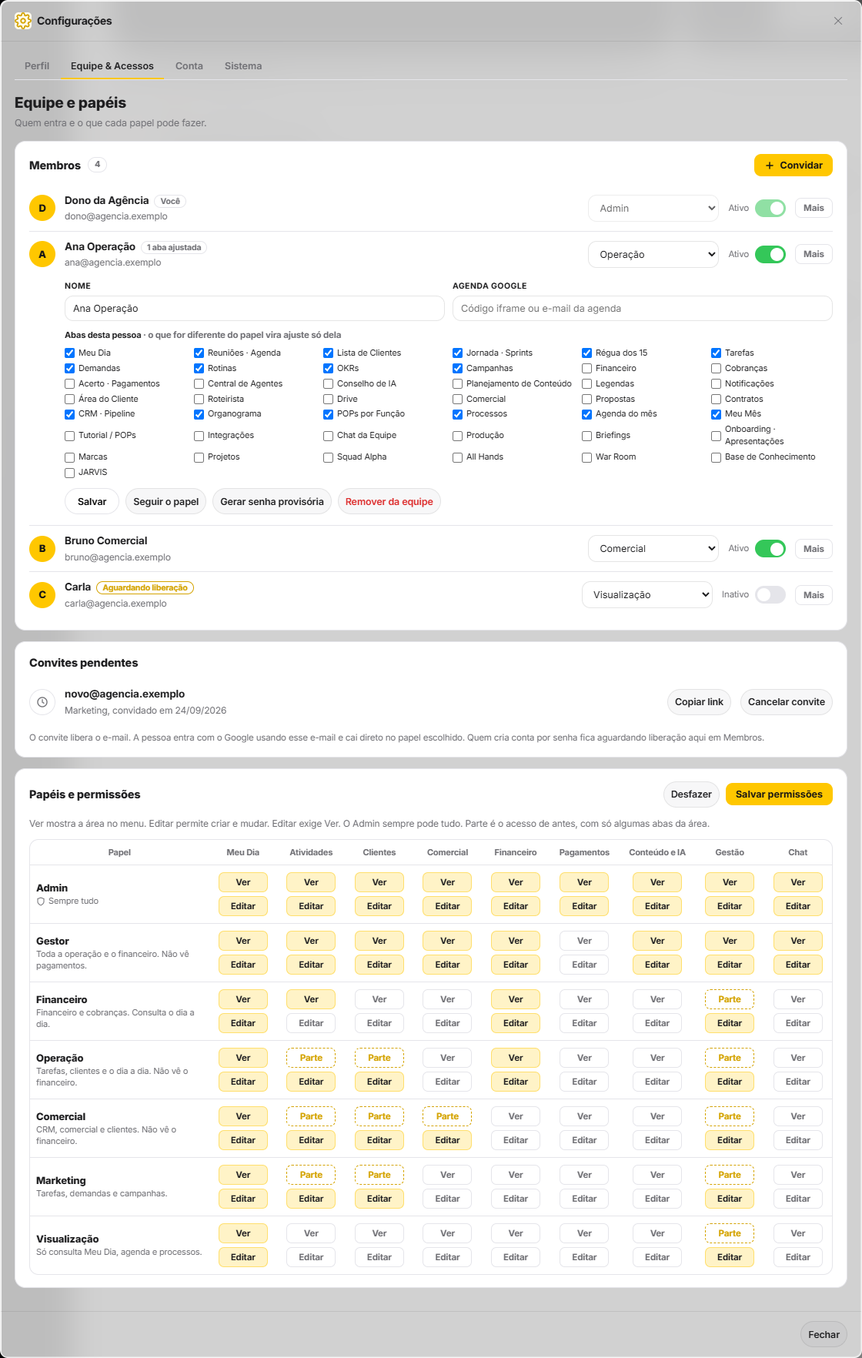
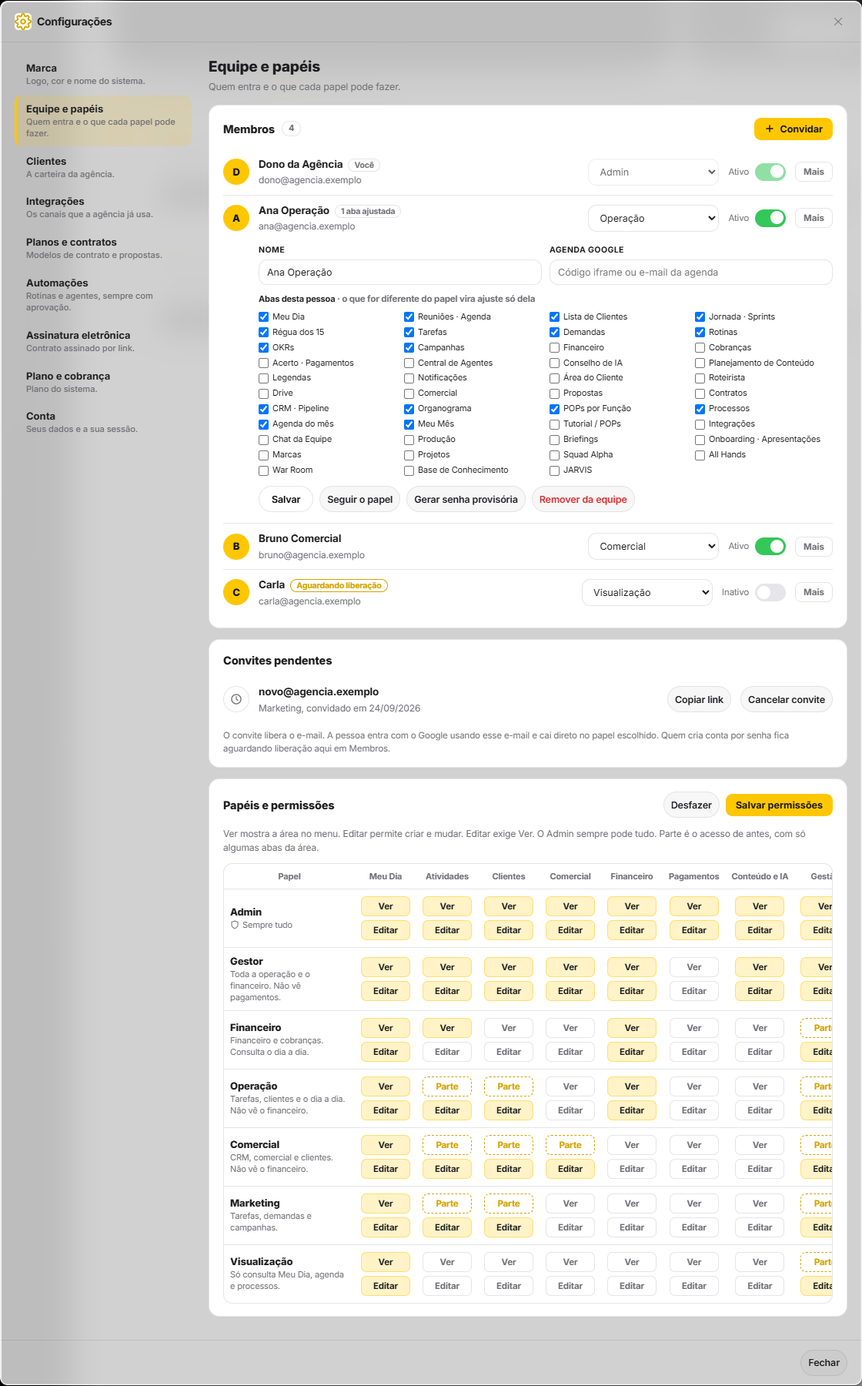
feat(configuracoes): menu lateral com as 9 seções da V3
- Marca, Equipe e papéis, Clientes, Integrações, Planos e contratos, Automações,
  Assinatura eletrônica, Plano e cobrança e Conta, no molde da V3
- Nada sumiu: Perfil entrou em Conta, a marca foi para Marca, as rotinas foram
  para Automações; as seções de atalho abrem as páginas que já existiam
- Quem não é admin nem gestor vê só Conta; setTab('perfil') e setTab('sistema')
  antigos caem em Conta e Marca
- No celular o menu vira abas roláveis

diff --git a/public/workflowark.html b/public/workflowark.html
@@ -1,4 +1,4 @@
-<!-- build 20260926b-inicio-v3 -->
+<!-- build 20260926c-config-v3 -->
 <html lang="pt-BR">
 <head>
 <meta charset="utf-8">
@@ -4373,7 +4373,7 @@ function wfaSetTheme(t){
 
 <!-- =================== CONFIGURAÇÕES =================== -->
 <div class="modal-bg" id="modal-settings">
-  <div class="modal" style="max-width:660px">
+  <div class="modal" style="max-width:1120px">
     <style>
       .set-tabs{display:flex;gap:2px;border-bottom:1px solid var(--line);margin:0 0 16px;flex-wrap:wrap}
       .set-tab{background:none;border:none;padding:8px 13px;font-size:12.5px;font-weight:600;color:var(--mute);cursor:pointer;border-bottom:2px solid transparent;border-radius:0;font-family:var(--sans)}
@@ -4391,49 +4391,120 @@ function wfaSetTheme(t){
       .set-acc-grid label{font-size:11px;color:var(--txt);display:flex;align-items:center;gap:5px;cursor:pointer}
       .set-merow{background:var(--bg);border:1px solid var(--line);border-radius:9px;padding:11px 13px;margin-bottom:14px}
       .set-meta-line{font-size:11px;color:var(--mute);font-family:var(--mono);margin-top:4px}
+      .set-nav{flex-direction:column;border-bottom:none;margin:0;gap:2px;flex-wrap:nowrap}
+      #modal-settings .modal-body{display:grid;grid-template-columns:230px minmax(0,1fr);gap:22px;align-items:start}
+      .set-nav .set-tab{display:flex;flex-direction:column;align-items:flex-start;gap:2px;text-align:left;padding:9px 12px;border-radius:10px;border-bottom:none;border-left:3px solid transparent}
+      .set-nav .set-tab b{font-size:13px;color:var(--ink);font-weight:700}.set-nav .set-tab span{font-size:11px;color:var(--mute);font-weight:500;line-height:1.35}
+      .set-nav .set-tab.active{background:color-mix(in srgb,var(--yel) 14%,transparent);border-left-color:var(--yel)}
+      .set-nav .set-tab:focus-visible{outline:2px solid var(--yel);outline-offset:2px}
+      .set-conteudo{min-width:0}
+      .set-cab{margin:2px 0 14px}.set-cab h4{font-size:19px;font-weight:800;color:var(--ink);margin:0}.set-cab p{font-size:12.5px;color:var(--mute);margin:3px 0 0}
+      .set-cards{display:grid;gap:10px;margin-bottom:14px}
+      .set-card{display:flex;justify-content:space-between;align-items:center;gap:12px;border:1px solid var(--line);border-radius:14px;padding:13px 15px;background:var(--surface)}
+      .set-card b{display:block;font-size:13.5px;color:var(--ink)}.set-card span{font-size:12px;color:var(--mute)}
+      .set-card-caixa{border:1px solid var(--line);border-radius:14px;padding:15px 16px;background:var(--surface);margin-bottom:14px}
+      .set-em-prep{font-size:12px;color:var(--yel-d)}
+      .set-kpis{display:grid;grid-template-columns:repeat(3,minmax(0,1fr));gap:10px;margin-bottom:14px}
+      .set-kpis div{border:1px solid var(--line);border-radius:14px;padding:13px 15px;background:var(--surface)}.set-kpis span{display:block;font-size:12px;color:var(--mute)}.set-kpis b{font-size:22px;color:var(--ink)}
+      @media (max-width:760px){
+        #modal-settings .modal-body{grid-template-columns:minmax(0,1fr);gap:12px}
+        .set-nav{flex-direction:row;overflow-x:auto;scrollbar-width:none;border-bottom:1px solid var(--line);padding-bottom:6px}
+        .set-nav::-webkit-scrollbar{display:none}
+        .set-nav .set-tab{flex:none;border-left:none;border-bottom:2px solid transparent;border-radius:8px}.set-nav .set-tab span{display:none}
+        .set-nav .set-tab.active{border-bottom-color:var(--yel)}
+        .set-card{flex-direction:column;align-items:flex-start}.set-kpis{grid-template-columns:minmax(0,1fr)}
+      }
     </style>
     <div class="modal-head">
       <h3><span class="ic"><svg viewBox="0 0 24 24" fill="none" stroke="currentColor" stroke-width="2" stroke-linecap="round" stroke-linejoin="round"><circle cx="12" cy="12" r="3"/><path d="M19.4 15a1.65 1.65 0 00.33 1.82l.06.06a2 2 0 11-2.83 2.83l-.06-.06a1.65 1.65 0 00-1.82-.33 1.65 1.65 0 00-1 1.51V21a2 2 0 11-4 0v-.09A1.65 1.65 0 009 19.4a1.65 1.65 0 00-1.82.33l-.06.06a2 2 0 11-2.83-2.83l.06-.06a1.65 1.65 0 00.33-1.82 1.65 1.65 0 00-1.51-1H3a2 2 0 110-4h.09A1.65 1.65 0 004.6 9a1.65 1.65 0 00-.33-1.82l-.06-.06a2 2 0 112.83-2.83l.06.06a1.65 1.65 0 001.82.33H9a1.65 1.65 0 001-1.51V3a2 2 0 114 0v.09a1.65 1.65 0 001 1.51 1.65 1.65 0 001.82-.33l.06-.06a2 2 0 112.83 2.83l-.06.06a1.65 1.65 0 00-.33 1.82V9a1.65 1.65 0 001.51 1H21a2 2 0 110 4h-.09a1.65 1.65 0 00-1.51 1z"/></svg></span>Configurações</h3>
       <span class="x" onclick="closeModal('modal-settings')">✕</span>
     </div>
     <div class="modal-body">
-      <div class="set-tabs">
-        <button class="set-tab active" data-st="perfil" onclick="setTab('perfil')">Perfil</button>
-        <button class="set-tab" data-st="equipe" id="set-tab-equipe" onclick="setTab('equipe')" style="display:none">Equipe &amp; Acessos</button>
-        <button class="set-tab" data-st="conta" onclick="setTab('conta')">Conta</button>
-        <button class="set-tab" data-st="sistema" onclick="setTab('sistema')">Sistema</button>
-      </div>
+      <nav class="set-tabs set-nav" aria-label="Seções das configurações">
+        <button class="set-tab" data-st="marca" data-st-gestao onclick="setTab('marca')"><b>Marca</b><span>Logo, cor e nome do sistema.</span></button>
+        <button class="set-tab" data-st="equipe" id="set-tab-equipe" onclick="setTab('equipe')" style="display:none"><b>Equipe e papéis</b><span>Quem entra e o que cada papel pode fazer.</span></button>
+        <button class="set-tab" data-st="clientes" data-st-gestao onclick="setTab('clientes')"><b>Clientes</b><span>A carteira da agência.</span></button>
+        <button class="set-tab" data-st="integracoes" data-st-gestao onclick="setTab('integracoes')"><b>Integrações</b><span>Os canais que a agência já usa.</span></button>
+        <button class="set-tab" data-st="planos" data-st-gestao onclick="setTab('planos')"><b>Planos e contratos</b><span>Modelos de contrato e propostas.</span></button>
+        <button class="set-tab" data-st="automacoes" data-st-gestao onclick="setTab('automacoes')"><b>Automações</b><span>Rotinas e agentes, sempre com aprovação.</span></button>
+        <button class="set-tab" data-st="assinatura" data-st-gestao onclick="setTab('assinatura')"><b>Assinatura eletrônica</b><span>Contrato assinado por link.</span></button>
+        <button class="set-tab" data-st="cobranca" data-st-gestao onclick="setTab('cobranca')"><b>Plano e cobrança</b><span>Plano do sistema.</span></button>
+        <button class="set-tab active" data-st="conta" onclick="setTab('conta')"><b>Conta</b><span>Seus dados e a sua sessão.</span></button>
+      </nav>
+      <div class="set-conteudo">
 
-      <!-- PERFIL -->
-      <div class="set-pane active" data-stp="perfil">
-        <div class="set-merow">
-          <div id="set-me-nm" style="font-size:14px;font-weight:700;color:var(--ink)">—</div>
-          <div class="set-meta-line" id="set-me-meta">—</div>
+      <!-- MARCA -->
+      <div class="set-pane" data-stp="marca">
+        <div class="set-cab"><h4>Marca</h4><p>Logo, cor e nome do sistema. Base para vender o WorkFlowArk com a marca de outra agência.</p></div>
+        <div class="set-card-caixa">
+        <div style="display:grid;grid-template-columns:1fr auto;gap:8px;align-items:end;margin-bottom:10px">
+          <div><label class="form-label">Nome do produto</label><input id="brand-name" class="form-input" placeholder="WorkFlowArk"></div>
+          <div><label class="form-label">Cor de destaque</label><input id="brand-color" type="color" value="#FFC700" style="width:52px;height:38px;border:1px solid var(--line);border-radius:8px;padding:2px;background:#fff;cursor:pointer"></div>
         </div>
-        <div class="form-group">
-          <label class="form-label">Seu nome de exibição</label>
-          <div style="display:flex;gap:8px">
-            <input class="form-input" id="set-myname" list="set-people" placeholder="Ex: Gabriel Andrade" style="flex:1">
-            <button class="tb-btn" onclick="salvarMeuNome()">Salvar nome</button>
-          </div>
-          <datalist id="set-people"></datalist>
-          <p class="muted" style="font-size:10.5px;margin-top:6px">Use o mesmo nome que aparece nas tarefas (campo "responsável") para o "Meu Dia" reconhecer as suas atividades.</p>
+        <div style="display:grid;grid-template-columns:1fr auto;gap:8px;align-items:end;margin-bottom:10px">
+          <div><label class="form-label">Logo (endereço da imagem)</label><input id="brand-logo" class="form-input" placeholder="https://.../logo.png" oninput="brandLogoPreview()"></div>
+          <div><label class="form-label">Prévia</label><div id="brand-logo-prev" style="width:38px;height:38px;border:1px solid var(--line);border-radius:8px;display:flex;align-items:center;justify-content:center;overflow:hidden;background:var(--surface)"><img src="/ark-mark.png" alt="" style="max-width:100%;max-height:100%;object-fit:contain"></div></div>
         </div>
-      </div>
+        <p class="muted" style="font-size:10.5px;margin-bottom:9px">O logo troca na barra lateral e na tela de entrada. Use PNG ou SVG com fundo transparente.</p>
+        <div style="display:flex;gap:8px;flex-wrap:wrap;margin-bottom:18px">
+          <button class="tb-btn" onclick="saveBrand()">Aplicar marca</button>
+          <button class="icobtn" onclick="resetBrand()">Restaurar ARK</button>
+        </div>
 
-
-      <!-- SISTEMA (blocos aprovados em 21/09, vindos da base v2) -->
-      <div class="set-pane" data-stp="sistema">
-        <div class="set-sect-t" style="margin-bottom:10px">Sistema</div>
-        <div style="display:grid;grid-template-columns:repeat(auto-fill,minmax(210px,1fr));gap:10px">
-          <button type="button" class="set-merow" style="text-align:left;cursor:pointer;margin:0;font-family:inherit" onclick="openSettingsIr('integracoes')"><div style="font-size:13.5px;font-weight:700;color:var(--ink)">Marca</div><div class="set-meta-line" style="font-family:inherit;font-size:11.5px">Logo, cores e link público do cliente</div></button>
-          <button type="button" class="set-merow" style="text-align:left;cursor:pointer;margin:0;font-family:inherit" onclick="setTab('equipe')"><div style="font-size:13.5px;font-weight:700;color:var(--ink)">Equipe e papéis</div><div class="set-meta-line" style="font-family:inherit;font-size:11.5px">Quem vê o quê. Financeiro restrito.</div></button>
-          <button type="button" class="set-merow" style="text-align:left;cursor:pointer;margin:0;font-family:inherit" onclick="openSettingsIr('integracoes')"><div style="font-size:13.5px;font-weight:700;color:var(--ink)">Integrações</div><div class="set-meta-line" style="font-family:inherit;font-size:11.5px">Google Agenda, Drive, Instagram, WhatsApp, Meta Ads</div></button>
-          <button type="button" class="set-merow" style="text-align:left;cursor:pointer;margin:0;font-family:inherit" onclick="openSettingsIr('contratos')"><div style="font-size:13.5px;font-weight:700;color:var(--ink)">Planos e contratos</div><div class="set-meta-line" style="font-family:inherit;font-size:11.5px">Modelos de contrato e propostas</div></button>
-          <button type="button" class="set-merow" style="text-align:left;cursor:pointer;margin:0;font-family:inherit" onclick="openSettingsIr('rotinas')"><div style="font-size:13.5px;font-weight:700;color:var(--ink)">Automações</div><div class="set-meta-line" style="font-family:inherit;font-size:11.5px">Rotinas e agentes, sempre com aprovação</div></button>
-          <button type="button" class="set-merow" style="text-align:left;cursor:pointer;margin:0;font-family:inherit" onclick="toast('Assinatura eletrônica: em preparação')"><div style="font-size:13.5px;font-weight:700;color:var(--ink)">Assinatura eletrônica</div><div class="set-meta-line" style="font-family:inherit;font-size:11.5px">Enviar contrato para assinar (em preparação)</div></button>
         </div>
       </div>
+      <!-- CLIENTES -->
+      <div class="set-pane" data-stp="clientes">
+        <div class="set-cab"><h4>Clientes</h4><p>A carteira que a agência atende.</p></div>
+        <div class="set-kpis" id="set-cli-kpis"></div>
+        <div class="set-cards">
+          <div class="set-card"><div><b>Lista de clientes</b><span>Cadastro, contrato, contato e status de cada cliente.</span></div><button class="tb-btn" type="button" onclick="openSettingsIr('lista-clientes')">Abrir lista</button></div>
+          <div class="set-card"><div><b>Gestão de clientes</b><span>Jornada, régua e o dia a dia por cliente.</span></div><button class="tb-btn" type="button" onclick="openSettingsIr('jornada')">Abrir gestão</button></div>
+        </div>
+      </div>
+      <!-- INTEGRAÇÕES -->
+      <div class="set-pane" data-stp="integracoes">
+        <div class="set-cab"><h4>Integrações</h4><p>Conecte os canais que a agência já usa.</p></div>
+        <div class="set-cards">
+          <div class="set-card"><div><b>Google Agenda</b><span>Reuniões e captações da equipe na agenda.</span></div><button class="tb-btn" type="button" onclick="openSettingsIr('integracoes')">Configurar</button></div>
+          <div class="set-card"><div><b>Google Drive</b><span>Pastas de cada cliente e entregas.</span></div><button class="tb-btn" type="button" onclick="openSettingsIr('integracoes')">Configurar</button></div>
+          <div class="set-card"><div><b>Instagram</b><span>Perfil, posts e prévia do feed do cliente.</span></div><button class="tb-btn" type="button" onclick="openSettingsIr('integracoes')">Configurar</button></div>
+          <div class="set-card"><div><b>WhatsApp</b><span>Conversas com clientes dentro do sistema.</span></div><button class="tb-btn" type="button" onclick="openSettingsIr('integracoes')">Configurar</button></div>
+          <div class="set-card"><div><b>Meta Ads</b><span>Campanhas e resultados de tráfego.</span></div><button class="tb-btn" type="button" onclick="openSettingsIr('integracoes')">Configurar</button></div>
+        </div>
+      </div>
+      <!-- PLANOS E CONTRATOS -->
+      <div class="set-pane" data-stp="planos">
+        <div class="set-cab"><h4>Planos e contratos</h4><p>Os pacotes que você vende e os modelos de contrato.</p></div>
+        <div class="set-cards">
+          <div class="set-card"><div><b>Contratos</b><span>Modelos e contratos gerados para cada cliente.</span></div><button class="tb-btn" type="button" onclick="openSettingsIr('contratos')">Abrir contratos</button></div>
+          <div class="set-card"><div><b>Propostas</b><span>Propostas comerciais prontas para enviar.</span></div><button class="tb-btn" type="button" onclick="openSettingsIr('propostas')">Abrir propostas</button></div>
+          <div class="set-card"><div><b>Comercial</b><span>Pacotes, preços e o funil de vendas.</span></div><button class="tb-btn" type="button" onclick="openSettingsIr('comercial')">Abrir comercial</button></div>
+        </div>
+      </div>
+      <!-- AUTOMAÇÕES -->
+      <div class="set-pane" data-stp="automacoes">
+        <div class="set-cab"><h4>Automações</h4><p>Regras que preparam o trabalho para você aprovar. Nada sai sozinho.</p></div>
+        <div class="set-cards">
+          <div class="set-card"><div><b>Central de Agentes</b><span>Os agentes de IA e o que cada um prepara.</span></div><button class="tb-btn" type="button" onclick="openSettingsIr('agentes')">Abrir agentes</button></div>
+        </div>
+        <div class="set-card-caixa">
+        <div class="set-sect-t" style="margin-bottom:9px">Rotinas</div>
+        <div id="set-rotinas" style="margin-bottom:18px"></div>
+
+        </div>
+      </div>
+      <!-- ASSINATURA ELETRÔNICA -->
+      <div class="set-pane" data-stp="assinatura">
+        <div class="set-cab"><h4>Assinatura eletrônica</h4><p>Contrato enviado por link e assinado com comprovante.</p></div>
+        <div class="set-card-caixa"><b class="set-em-prep">Em preparação</b><p class="muted" style="font-size:12.5px;margin:6px 0 0">A assinatura por link já funciona na versão para agências. Aqui ela entra depois de testada lá. Por enquanto, os contratos continuam em Contratos.</p><div style="margin-top:12px"><button class="tb-btn" type="button" onclick="openSettingsIr('contratos')">Abrir contratos</button></div></div>
+      </div>
+      <!-- PLANO E COBRANÇA -->
+      <div class="set-pane" data-stp="cobranca">
+        <div class="set-cab"><h4>Plano e cobrança</h4><p>O plano do sistema.</p></div>
+        <div class="set-card-caixa"><b>Instância da ARK Content</b><p class="muted" style="font-size:12.5px;margin:6px 0 0">Período de teste e assinatura do sistema existem só na versão para agências. Esta instância é a da própria ARK.</p></div>
+      </div>
+
       <!-- EQUIPE E PAPÉIS (admin, 24/09/2026: layout da V3) -->
       <div class="set-pane" data-stp="equipe">
         <style>
@@ -4514,6 +4585,20 @@ function wfaSetTheme(t){
 
       <!-- CONTA -->
       <div class="set-pane" data-stp="conta">
+        <div class="set-cab"><h4>Conta</h4><p>Seus dados de acesso e a sua sessão.</p></div>
+        <div class="set-merow">
+          <div id="set-me-nm" style="font-size:14px;font-weight:700;color:var(--ink)">—</div>
+          <div class="set-meta-line" id="set-me-meta">—</div>
+        </div>
+        <div class="form-group">
+          <label class="form-label">Seu nome de exibição</label>
+          <div style="display:flex;gap:8px">
+            <input class="form-input" id="set-myname" list="set-people" placeholder="Ex: Gabriel Andrade" style="flex:1">
+            <button class="tb-btn" onclick="salvarMeuNome()">Salvar nome</button>
+          </div>
+          <datalist id="set-people"></datalist>
+          <p class="muted" style="font-size:10.5px;margin-top:6px">Use o mesmo nome que aparece nas tarefas (campo "responsável") para o "Meu Dia" reconhecer as suas atividades.</p>
+        </div>
         <div class="set-sect-t" style="margin-bottom:9px">Sincronização &amp; sessão</div>
         <div style="display:flex;gap:8px;flex-wrap:wrap;margin-bottom:18px">
           <button class="icobtn" onclick="try{sincronizarAgora()}catch(e){}">↻ Sincronizar agora</button>
@@ -4529,30 +4614,11 @@ function wfaSetTheme(t){
           <button class="tb-btn" onclick="importarDados()">⬆ Importar dados</button>
         </div>
 
-        <div class="set-sect-t" style="margin-bottom:9px">Rotinas de uma vez só</div>
-        <div id="set-rotinas" style="margin-bottom:18px"></div>
-
         <div class="set-sect-t" style="margin-bottom:9px">JARVIS</div>
         <p class="muted" style="font-size:10.5px;margin-bottom:9px">Abra o JARVIS batendo <b>2 palmas</b> (usa o microfone; você autoriza uma vez). Toca um som de inicialização ao abrir.</p>
         <div style="display:flex;gap:8px;flex-wrap:wrap;margin-bottom:18px">
           <button class="tb-btn" id="clap-btn" onclick="arkClapToggle()">Ativar abrir por 2 palmas</button>
           <button class="icobtn" onclick="jarvisBootSound()">▶ Ouvir o som</button>
-        </div>
-
-        <div class="set-sect-t" style="margin-bottom:9px">Marca (White Label)</div>
-        <p class="muted" style="font-size:10.5px;margin-bottom:9px">Personalize o nome e a cor do sistema. Base para vender o WorkFlowArk como produto de outras agências.</p>
-        <div style="display:grid;grid-template-columns:1fr auto;gap:8px;align-items:end;margin-bottom:10px">
-          <div><label class="form-label">Nome do produto</label><input id="brand-name" class="form-input" placeholder="WorkFlowArk"></div>
-          <div><label class="form-label">Cor de destaque</label><input id="brand-color" type="color" value="#FFC700" style="width:52px;height:38px;border:1px solid var(--line);border-radius:8px;padding:2px;background:#fff;cursor:pointer"></div>
-        </div>
-        <div style="display:grid;grid-template-columns:1fr auto;gap:8px;align-items:end;margin-bottom:10px">
-          <div><label class="form-label">Logo (endereço da imagem)</label><input id="brand-logo" class="form-input" placeholder="https://.../logo.png" oninput="brandLogoPreview()"></div>
-          <div><label class="form-label">Prévia</label><div id="brand-logo-prev" style="width:38px;height:38px;border:1px solid var(--line);border-radius:8px;display:flex;align-items:center;justify-content:center;overflow:hidden;background:var(--surface)"><img src="/ark-mark.png" alt="" style="max-width:100%;max-height:100%;object-fit:contain"></div></div>
-        </div>
-        <p class="muted" style="font-size:10.5px;margin-bottom:9px">O logo troca na barra lateral e na tela de entrada. Use PNG ou SVG com fundo transparente.</p>
-        <div style="display:flex;gap:8px;flex-wrap:wrap;margin-bottom:18px">
-          <button class="tb-btn" onclick="saveBrand()">Aplicar marca</button>
-          <button class="icobtn" onclick="resetBrand()">Restaurar ARK</button>
         </div>
 
         <div class="set-sect-t" style="margin-bottom:9px">Dados de demonstração</div>
@@ -4561,6 +4627,7 @@ function wfaSetTheme(t){
           <button class="icobtn" style="color:var(--red)" onclick="removerExemplos()">Remover exemplos</button>
         </div>
         <div class="set-meta-line">WorkFlowArk · ARK Content · v3</div>
+      </div>
       </div>
     </div>
     <div class="modal-foot"><button class="icobtn" onclick="closeModal('modal-settings')">Fechar</button></div>

diff --git a/public/workflowark-app-20260926a.js b/public/workflowark-app-20260926a.js
@@ -5130,11 +5130,25 @@ function renderMonthPill(){
 /* descricao da tarefa: altura acompanha o texto ate o teto do CSS (max-height) */
 function tdDescAuto(){const d=document.getElementById('td-desc');if(!d)return;d.style.height='auto';d.style.height=Math.max(168,d.scrollHeight+4)+'px';}
 function openSettingsIr(pagina){try{closeModal('modal-settings');}catch(e){}const el=document.querySelector('[data-nav="'+pagina+'"]');if(el)el.click();}
+/* Configurações no molde da V3 (26/09/2026): menu lateral com 9 seções. Perfil entrou
+   em Conta, Sistema virou as seções. Quem não é admin nem gestor vê só Conta. */
+const SET_ANTIGAS={perfil:'conta',sistema:'marca'};
+function setGestao(){const r=WFA_MEMBER&&WFA_MEMBER.role;return r==='admin'||r==='gestor';}
 function setTab(name){
-  const md=document.querySelector('#modal-settings .modal');if(md)md.style.maxWidth=name==='equipe'?'1120px':'660px';
-  document.querySelectorAll('#modal-settings .set-tab').forEach(b=>b.classList.toggle('active',b.dataset.st===name));
+  name=SET_ANTIGAS[name]||name;
+  const btn=document.querySelector('#modal-settings .set-tab[data-st="'+name+'"]');
+  if(!btn||btn.style.display==='none')name='conta';
+  document.querySelectorAll('#modal-settings .set-tab').forEach(b=>{const on=b.dataset.st===name;b.classList.toggle('active',on);if(on)b.setAttribute('aria-current','page');else b.removeAttribute('aria-current');});
   document.querySelectorAll('#modal-settings .set-pane').forEach(p=>p.classList.toggle('active',p.dataset.stp===name));
-  if(name==='conta'){try{wfaRotinasRender();}catch(e){}}
+  if(name==='automacoes'||name==='conta'){try{wfaRotinasRender();}catch(e){}}
+  if(name==='clientes')setClientesResumo();
+}
+function setClientesResumo(){
+  const el=document.getElementById('set-cli-kpis');if(!el)return;
+  const lista=(typeof CLIENTES!=='undefined'&&Array.isArray(CLIENTES))?CLIENTES:[];
+  const alerta=lista.filter(c=>c.status==='r').length;
+  const cap=lista.filter(c=>Number(c.cap)>0).length;
+  el.innerHTML=`<div><span>Clientes na carteira</span><b>${lista.length}</b></div><div><span>Com captação no contrato</span><b>${cap}</b></div><div><span>Em alerta</span><b>${alerta}</b></div>`;
 }
 function openSettings(){
   const dl=document.getElementById('set-people');
@@ -5145,7 +5159,8 @@ function openSettings(){
   const nmEl=document.getElementById('set-me-nm');if(nmEl)nmEl.textContent=m&&m.full_name?m.full_name:'Sem nome definido';
   const meta=document.getElementById('set-me-meta');if(meta)meta.textContent=(m?(ROLE_LABEL[m.role]||m.role||'Membro'):'—')+(m&&m.email?' · '+m.email:'');
   const pr=document.getElementById('pref-regua');if(pr)pr.checked=localStorage.getItem('wfa-show-regua')==='1';
-  setTab('perfil');
+  document.querySelectorAll('#modal-settings [data-st-gestao]').forEach(b=>{b.style.display=setGestao()?'':'none';});
+  setTab(setGestao()?'marca':'conta');
   eqLigarEventos();EQ_MATRIZ_SUJA=false;EQ_ABERTO=null;EQ_CONVITE_ABERTO=false;
   renderSettingsTeam();
   document.getElementById('modal-settings').classList.add('open');

diff --git a/deploy/prova-config.py b/deploy/prova-config.py
@@ -1,0 +1,47 @@
+# -*- coding: utf-8 -*-
+"""Prova das Configurações no molde da V3 (26/09/2026). Uso: python deploy/prova-config.py [url-base].
+Abre cada seção como admin (claro e escuro), confere que operação só vê Conta e mede o celular."""
+import sys, json, time, threading, http.server, socketserver, functools, io
+sys.stdout = io.TextIOWrapper(sys.stdout.buffer, encoding='utf-8')
+from playwright.sync_api import sync_playwright
+base = sys.argv[1] if len(sys.argv) > 1 else None
+srv = None
+if not base:
+    class Q(http.server.SimpleHTTPRequestHandler):
+        def log_message(self, *a): pass
+    srv = socketserver.TCPServer(('127.0.0.1', 5197), functools.partial(Q, directory='public'))
+    threading.Thread(target=srv.serve_forever, daemon=True).start()
+    base = 'http://127.0.0.1:5197'
+sess = {'access_token': 't', 'refresh_token': 't', 'token_type': 'bearer', 'expires_in': 3600, 'expires_at': int(time.time()) + 3600, 'user': {'id': '0', 'email': 'dono@agencia.exemplo'}}
+local = srv is not None
+SECOES = ['marca', 'equipe', 'clientes', 'integracoes', 'planos', 'automacoes', 'assinatura', 'cobranca', 'conta']
+with sync_playwright() as pw:
+    b = pw.chromium.launch(channel='chrome', headless=True)
+    for tema in ['light', 'dark']:
+        ctx = b.new_context(viewport={'width': 1440, 'height': 1000})
+        ctx.add_init_script("try{%slocalStorage.setItem('wfa-theme','%s');}catch(e){}" % ("localStorage.setItem('sb-fxfnonozzekxnxddxsnh-auth-token',%s);" % json.dumps(json.dumps(sess)) if local else '', tema))
+        p = ctx.new_page(); erros = []
+        p.on('pageerror', lambda e: erros.append(str(e)[:160]))
+        p.goto(base + '/workflowark.html', wait_until='load'); p.wait_for_timeout(3500)
+        print(tema, 'marcador:', p.evaluate("async () => { const t = await (await fetch(location.href,{cache:'no-store'})).text(); return (t.match(/build [0-9a-z-]+/)||[''])[0]; }"))
+        p.evaluate("() => { WFA_MEMBER = {id:'m1', role:'admin', full_name:'Dono da Agência', email:'dono@agencia.exemplo'}; WFA_MEMBERS=[WFA_MEMBER]; openSettings(); }"); p.wait_for_timeout(500)
+        print('  inicial:', p.evaluate("() => document.querySelector('#modal-settings .set-pane.active').dataset.stp"))
+        for sec in SECOES:
+            p.evaluate("(s) => setTab(s)", sec); p.wait_for_timeout(250)
+            ativo = p.evaluate("() => document.querySelector('#modal-settings .set-pane.active').dataset.stp")
+            alt = p.evaluate("() => document.querySelector('#modal-settings .set-pane.active').offsetHeight")
+            print('   ', sec, '->', ativo, '| altura', alt)
+            if local and sec in ('marca', 'clientes', 'automacoes', 'conta'):
+                p.locator('#modal-settings .modal').screenshot(path=f'deploy/prova-config-{sec}-{tema}.png')
+        print('  antigas: perfil ->', p.evaluate("() => { setTab('perfil'); return document.querySelector('#modal-settings .set-pane.active').dataset.stp; }"), '| sistema ->', p.evaluate("() => { setTab('sistema'); return document.querySelector('#modal-settings .set-pane.active').dataset.stp; }"))
+        p.evaluate("() => { closeModal('modal-settings'); WFA_MEMBER = {id:'m2', role:'operacao', full_name:'Ana'}; openSettings(); }"); p.wait_for_timeout(400)
+        print('  operacao ve:', p.evaluate("() => [...document.querySelectorAll('#modal-settings .set-tab')].filter(b=>b.style.display!=='none').map(b=>b.dataset.st).join(',')"), '| ativa:', p.evaluate("() => document.querySelector('#modal-settings .set-pane.active').dataset.stp"))
+        if tema == 'dark':
+            p.evaluate("() => { WFA_MEMBER = {id:'m1', role:'admin', full_name:'Dono'}; openSettings(); }")
+            p.set_viewport_size({'width': 390, 'height': 844}); p.wait_for_timeout(600)
+            print('  celular largura:', p.evaluate("() => document.documentElement.scrollWidth"))
+            if local: p.screenshot(path='deploy/prova-config-celular.png')
+        print('  erros de pagina:', erros or 'nenhum')
+        ctx.close()
+    b.close()
+if srv: srv.shutdown()
